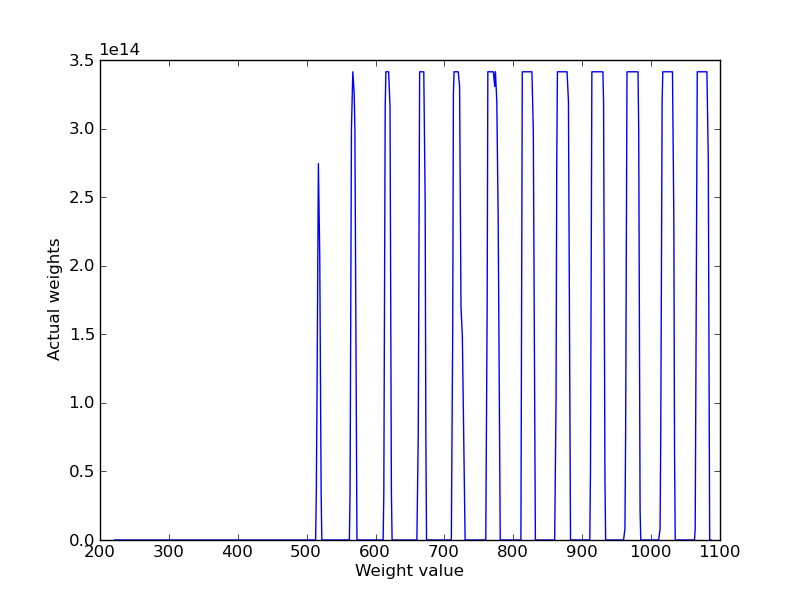
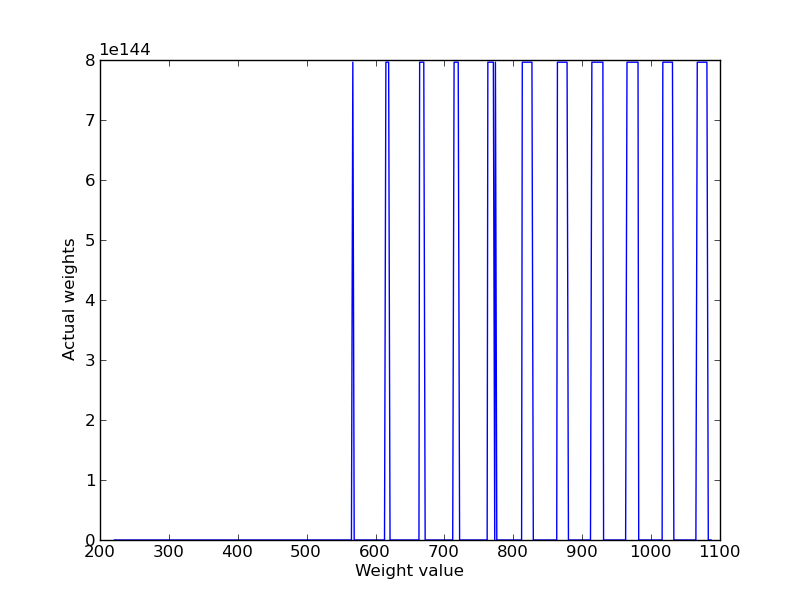
a lot more changes, also the code on retrieving the memory of the neural network, some strange pattern is being stored

diff --git a/MLP/store_in_perceptron.py b/MLP/store_in_perceptron.py
@@ -14,14 +14,14 @@ img_ht = 50
 img_wdt = 50
 
 inputs = img_ht*img_wdt
-hidden = 1000
+hidden = 100
 
 # input layer to hidden layer weights and hidden layer to output layer weights
 itoh_wts=[]
 htoo_wts=[]
 
 #learning factor
-n=0.2
+n=0.5
 
 
 #lets initialize the weights to some really small values like 0.01
@@ -62,7 +62,8 @@ for p in range(1,len(sys.argv)):
     #images all the three values are the same, so taking just one from 
     #them and assigning them to the input units
     for vali in range(inputs):
-        input_units[vali] = float(pixel_li[vali][0])
+        #changing the inputs binary values
+        input_units[vali] = float(pixel_li[vali][0]/255)
     
     #calculate activations for the hidden units
     for vali in range(hidden):
@@ -120,9 +121,39 @@ y_list=[]
 for value in itoh_wts:
     y_list.extend(value)
 x_list = range(221,1088)
-print y_list
+#print y_list
 pylab.xlabel("Weight value")
 pylab.ylabel("Actual weights")
 pylab.plot(x_list, y_list[221:1088])
 pylab.savefig("weight_graph.png")
-pylab.show()
+#pylab.show()
+
+# now let us try to retrieve what the MLP has stored in the weights during the training for result = 1
+print "Retrieving the memory of the network ;)"
+hidden_units = []
+inputs_units = []
+result = 1
+for vali in range(hidden):
+    hidden_units.append(0)
+for vali in range(inputs):
+    input_units.append(0)
+for vali in range(hidden):
+    hidden_units[vali] = result * htoo_wts[vali]
+#lets calculate the output at the input layer 
+for vali in range(inputs):
+    temp2 = 0
+    for valj in range(hidden):
+        temp2 = temp2 + hidden_units[valj]*itoh_wts[valj][vali]
+    input_units[vali] = temp2
+
+
+im_retr = Image.new("L", (img_wdt, img_ht))
+pix = im_retr.load()
+for vali in range(img_wdt):
+    for valj in range(img_ht):
+        temp2 = input_units[((vali+1)*(valj+1))-1]
+        pix[vali, valj] = temp2%256
+im_retr.save("Memory.png")
+for value in input_units:
+    print value, "  ", 
+
